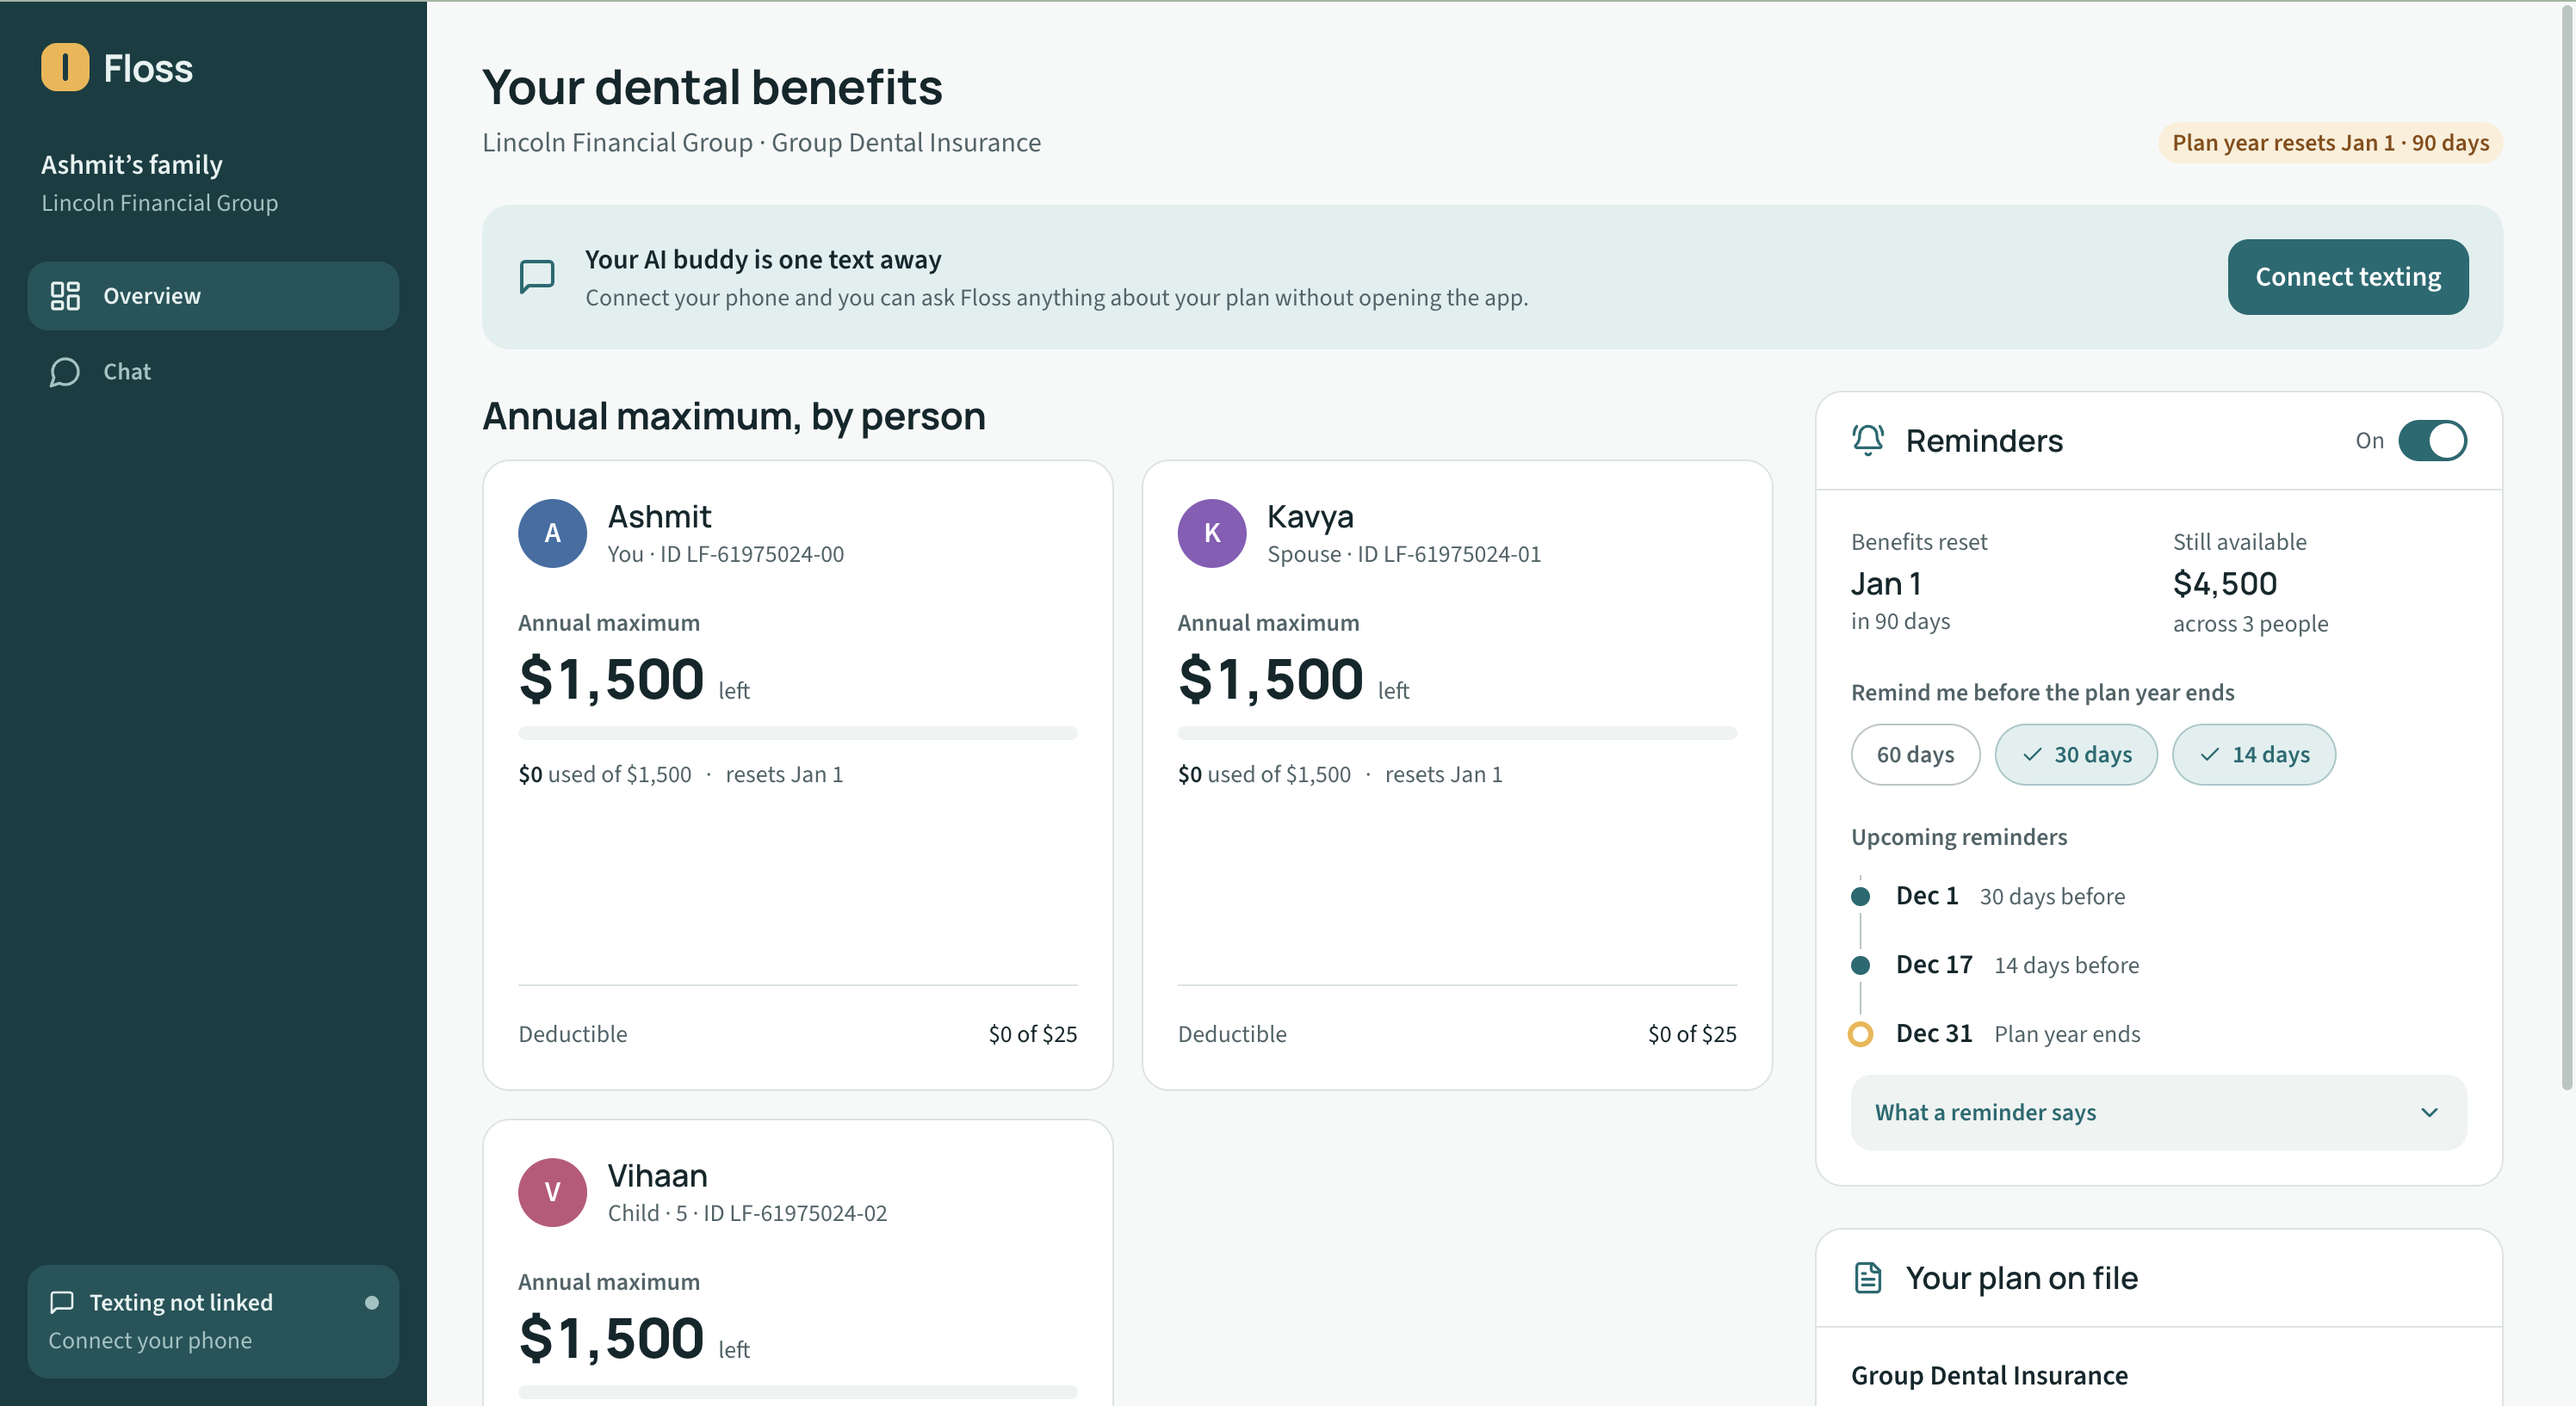
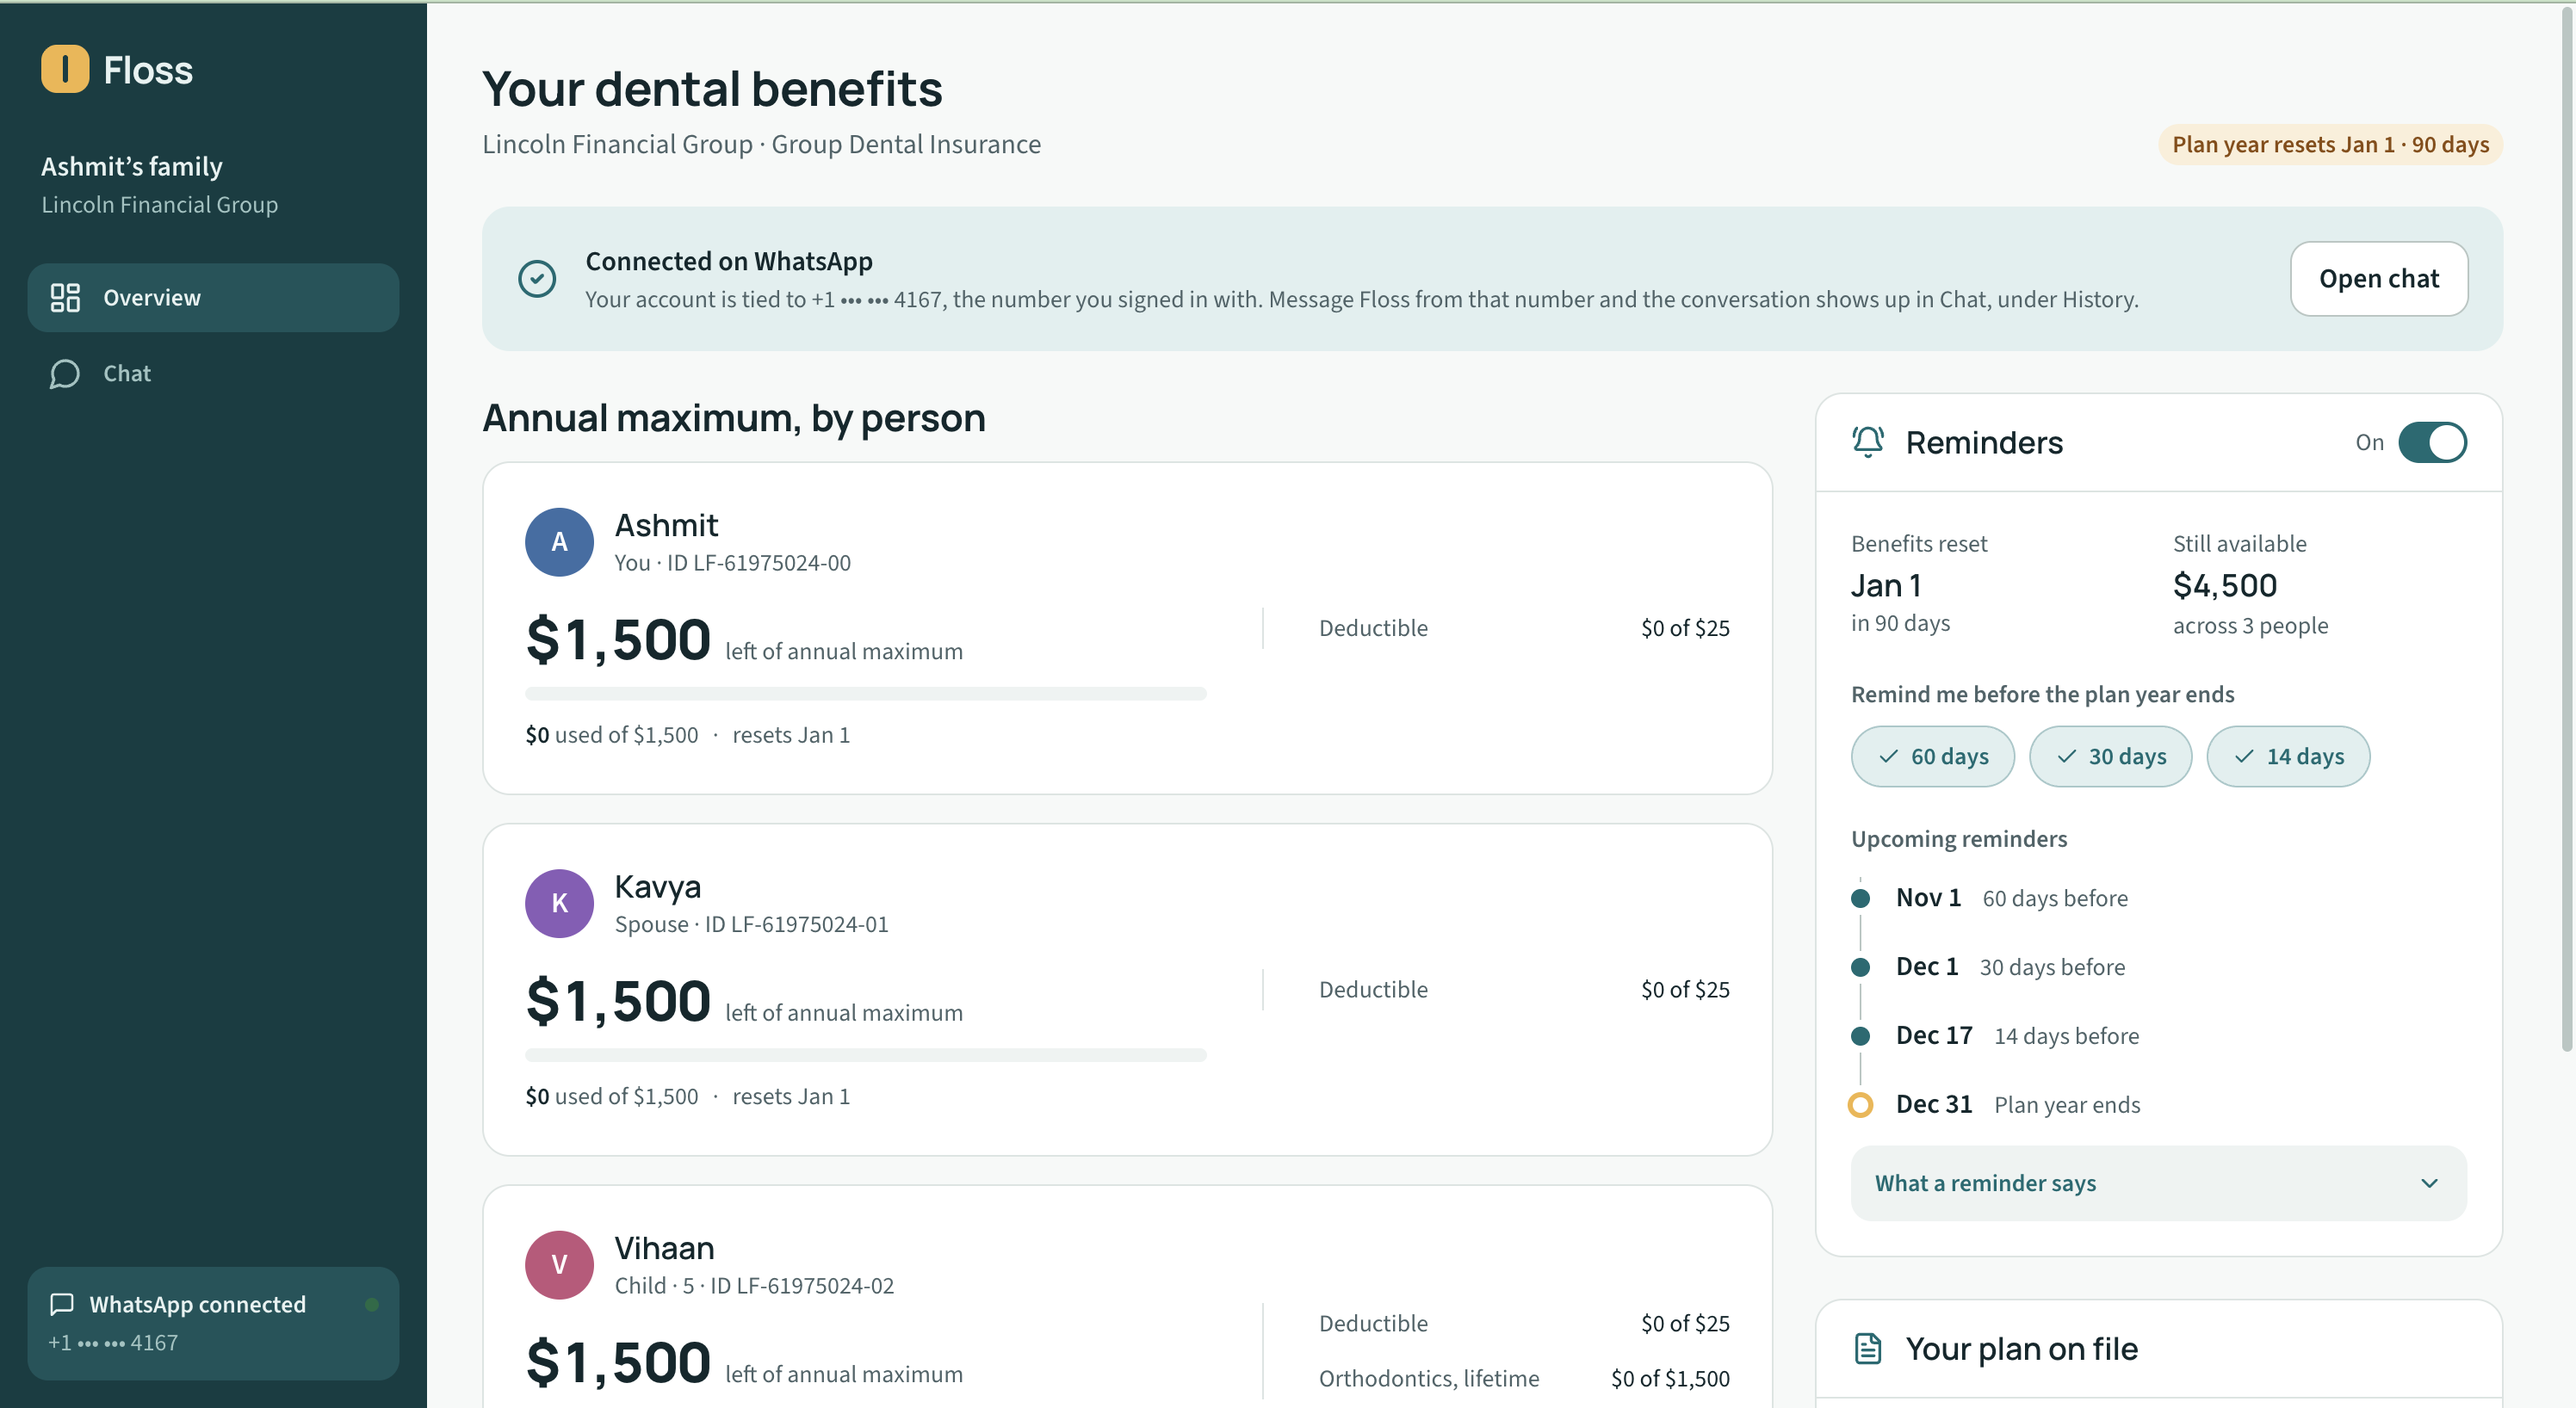
updated readme

diff --git a/README.md b/README.md
@@ -8,7 +8,6 @@ Floss answers an employee's dental benefits questions on WhatsApp and in a web a
 
 <!-- Replace the placeholder PNGs in docs/screenshots (hero, chat, dashboard, mobile) with real captures. Keep the file names. -->
 
-Demo video: _link goes here_
 
 ## The problem
 
@@ -32,7 +31,6 @@ Ask for a plan summary, or get a reminder before benefits reset.
 
 ![Dashboard](docs/screenshots/dashboard.png)
 
-![Phone view](docs/screenshots/mobile.png)
 
 ## Architecture
 
@@ -43,7 +41,7 @@ The editable source is [`architecture.drawio`](docs/architecture/architecture.dr
 1. The person signs in with Amazon Cognito and asks in the web app. WhatsApp messages come in through a signed Twilio webhook on the same API.
 2. API Gateway checks the JWT (or Twilio's signature) and hands the request to the API Lambda.
 3. The Lambda takes the phone number from the verified token, never from the request. It replays the last 20 messages as context and searches pgvector for that person's rows.
-4. Bedrock does the language work. One Claude Haiku 4.5 call picks the person and treatment. Code then looks up the stored estimates and does the arithmetic. A second call writes the reply from those facts. Titan Text Embeddings v2 handles the search.
+4. Bedrock does the language work. Code then looks up the stored estimates and does the arithmetic. A second call writes the reply from those facts. Titan Text Embeddings v2 handles the search.
 5. Every dollar figure, email address, phone number and link in the reply must be one of the facts. If one isn't, the writer gets one retry, and after that code writes the reply. The Lambda saves both messages and returns the answer.
 
 The six ideas behind it:
@@ -63,13 +61,10 @@ Live on AWS:
 - Chat answers from the picker and writer pipeline in `backend/rag`, tested offline with `python3 -m unittest backend/rag/test_advisor.py`
 - Postgres with pgvector: 20 treatment estimates (4 people, 5 conditions), 30 NC hospitals with contact details, 30 NC dental costs, users and chat history
 
-Built on the `whatsapp-chatbot` branch, not merged to `main` yet:
+Built on the `whatsapp-chatbot`
 - A signed Twilio webhook route (`POST /v1/twilio/sms`) in the API Lambda that answers WhatsApp and SMS from the same chat history
 - A separate Lambda in `backend/whatsapp-chatbot` that introduces Floss AI and calls the same RAG function
 
-Partly done:
-- Cost math. Code computes savings and the corrected braces totals for the five stored treatments. There is no general plan-rules engine yet.
-- Reminders. The dashboard shows when they go out, and the screenshot above shows one sent on WhatsApp. The code that schedules and sends them is not in the repo yet.
 
 Not built:
 - Language detection and translation
